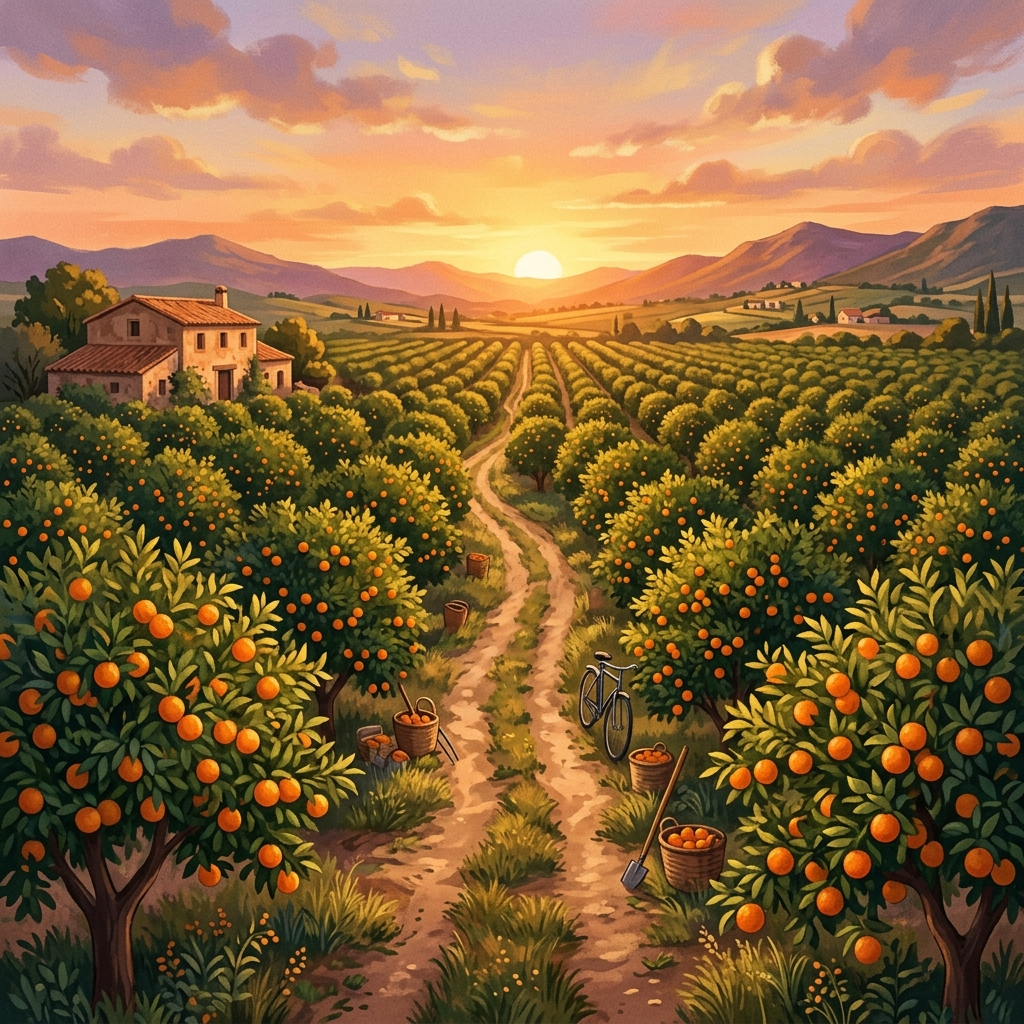
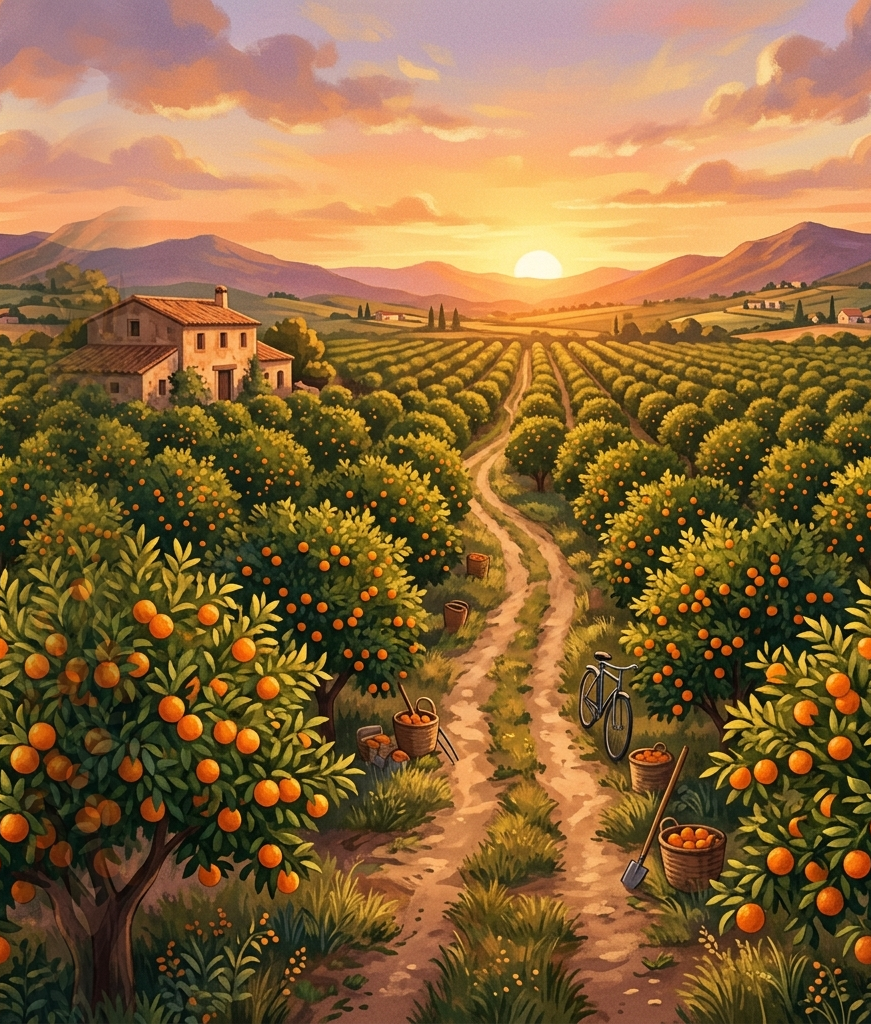
360 seamless

diff --git a/lofi/lofi.js b/lofi/lofi.js
@@ -91,11 +91,12 @@ document.addEventListener('DOMContentLoaded', () => {
         bgContainer.style.backgroundImage = `url(${bgUrl})`;
         ambientNameDisplay.textContent = amb.name;
 
-        // Configuración especial para fondos 360 (Modo panorámico)
+        // Configuración especial para fondos 360
         if (amb.is360) {
-            // Aseguramos que la imagen sea muy ancha para evitar que se vea el borde
-            bgContainer.style.backgroundSize = 'max(200vw, 300vh) auto';
-            bgContainer.style.backgroundRepeat = 'no-repeat';
+            // Ampliamos el alto al 300vh para asegurar que el ancho se escale mucho.
+            // Esto evita ver repetida la imagen en portátiles muy anchos.
+            bgContainer.style.backgroundSize = 'auto 300vh';
+            bgContainer.style.backgroundRepeat = 'repeat-x';
         } else {
             bgContainer.style.backgroundSize = 'cover';
             bgContainer.style.backgroundRepeat = 'no-repeat';
@@ -462,6 +463,7 @@ document.addEventListener('DOMContentLoaded', () => {
     // Posiciones objetivo (a donde el usuario quiere ir arrastrando)
     let bgTargetX = 50; 
     let bgTargetY = 50;
+    let accumulatedX360 = 0; // Para el modo 360 infinito (en pixeles)
 
     // Posiciones actuales (las que se renderizan y persiguen al objetivo con inercia)
     let bgCurrentX = 50;
@@ -469,6 +471,7 @@ document.addEventListener('DOMContentLoaded', () => {
 
     const bgEasing = 0.05; // Velocidad de la inercia (menor = más inercia)
     const dragSensitivityNormal = 0.08; // Sensibilidad del porcentaje por pixel arrastrado
+    const dragSensitivity360 = 1.2; // Sensibilidad de los píxeles en modo 360
 
     // Eventos de arrastre en el body
     document.body.addEventListener('mousedown', startBgDrag);
@@ -517,12 +520,23 @@ document.addEventListener('DOMContentLoaded', () => {
 
         const amb = AMBIENTS[currentAmbient];
 
-        // Todos los modos (Normal y Panorámico/360) usan límite de 0-100%
-        bgTargetX -= deltaX * dragSensitivityNormal;
-        bgTargetX = Math.max(0, Math.min(100, bgTargetX));
-        
-        bgTargetY -= deltaY * dragSensitivityNormal;
-        bgTargetY = Math.max(0, Math.min(100, bgTargetY));
+        if (amb && amb.is360) {
+            // Modo 360: infinito horizontal (en píxeles)
+            // Si arrastro a la izquierda (deltaX negativo), el fondo va a la izquierda
+            accumulatedX360 += deltaX * dragSensitivity360;
+            bgTargetX = accumulatedX360;
+            
+            // Limitamos un poco el Y para no salirnos demasiado de la imagen (porcentaje)
+            bgTargetY -= deltaY * dragSensitivityNormal;
+            bgTargetY = Math.max(0, Math.min(100, bgTargetY));
+        } else {
+            // Modo Normal: limitado a 0-100%
+            bgTargetX -= deltaX * dragSensitivityNormal;
+            bgTargetX = Math.max(0, Math.min(100, bgTargetX));
+            
+            bgTargetY -= deltaY * dragSensitivityNormal;
+            bgTargetY = Math.max(0, Math.min(100, bgTargetY));
+        }
         
         if (e.cancelable) e.preventDefault();
     }
@@ -537,12 +551,23 @@ document.addEventListener('DOMContentLoaded', () => {
 
         const amb = AMBIENTS[currentAmbient];
         const stepNormal = 5; // Porcentaje de movimiento por pulsación
+        const step360 = 60;   // Píxeles de movimiento en modo 360
 
         if (e.key === 'ArrowRight') {
-            bgTargetX = Math.max(0, Math.min(100, bgTargetX + stepNormal));
+            if (amb && amb.is360) {
+                accumulatedX360 -= step360;
+                bgTargetX = accumulatedX360;
+            } else {
+                bgTargetX = Math.max(0, Math.min(100, bgTargetX + stepNormal));
+            }
             e.preventDefault();
         } else if (e.key === 'ArrowLeft') {
-            bgTargetX = Math.max(0, Math.min(100, bgTargetX - stepNormal));
+            if (amb && amb.is360) {
+                accumulatedX360 += step360;
+                bgTargetX = accumulatedX360;
+            } else {
+                bgTargetX = Math.max(0, Math.min(100, bgTargetX - stepNormal));
+            }
             e.preventDefault();
         } else if (e.key === 'ArrowUp') {
             bgTargetY = Math.max(0, Math.min(100, bgTargetY - stepNormal));
@@ -562,8 +587,13 @@ document.addEventListener('DOMContentLoaded', () => {
         const amb = AMBIENTS[currentAmbient];
 
         if (Math.abs(bgTargetX - bgCurrentX) > 0.01 || Math.abs(bgTargetY - bgCurrentY) > 0.01) {
-            // Aplicamos porcentaje a ambos en todos los modos
-            bgContainer.style.backgroundPosition = `${bgCurrentX.toFixed(2)}% ${bgCurrentY.toFixed(2)}%`;
+            if (amb && amb.is360) {
+                // En 360 aplicamos píxeles a X y porcentaje a Y
+                bgContainer.style.backgroundPosition = `${bgCurrentX}px ${bgCurrentY.toFixed(2)}%`;
+            } else {
+                // En normal aplicamos porcentaje a ambos
+                bgContainer.style.backgroundPosition = `${bgCurrentX.toFixed(2)}% ${bgCurrentY.toFixed(2)}%`;
+            }
         }
         
         requestAnimationFrame(animateBgParallax);
